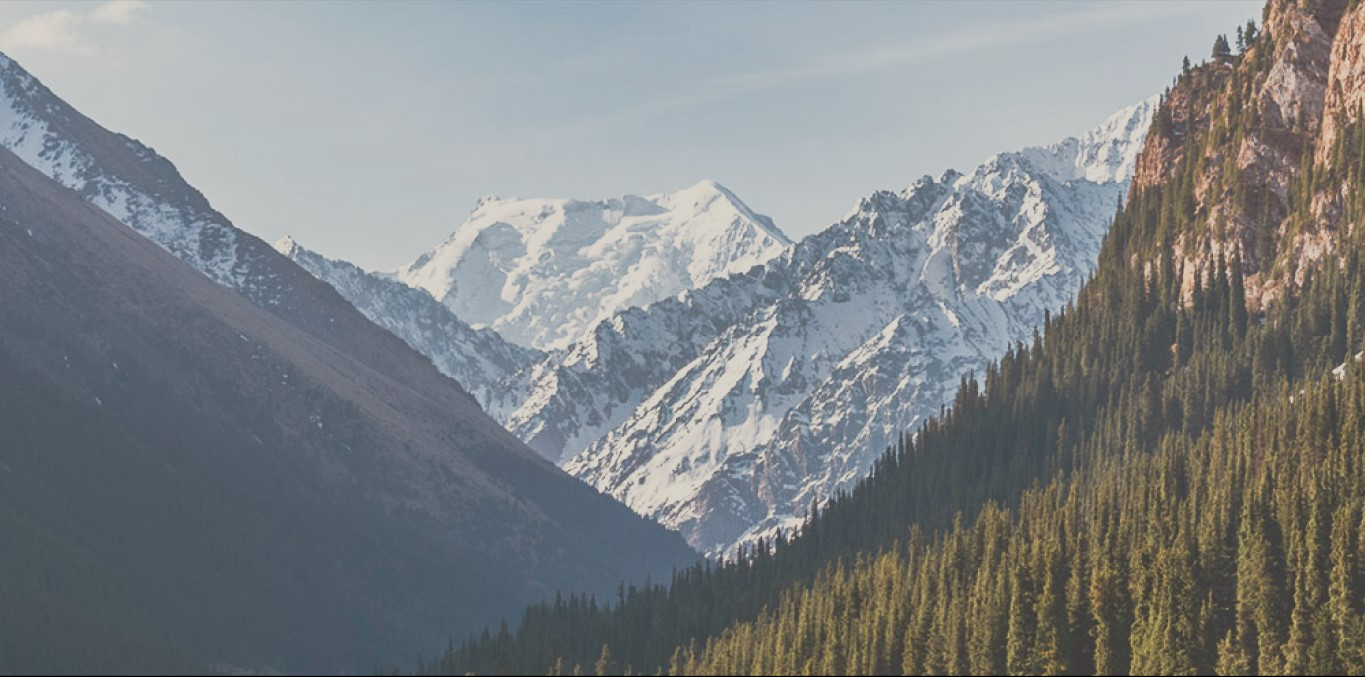
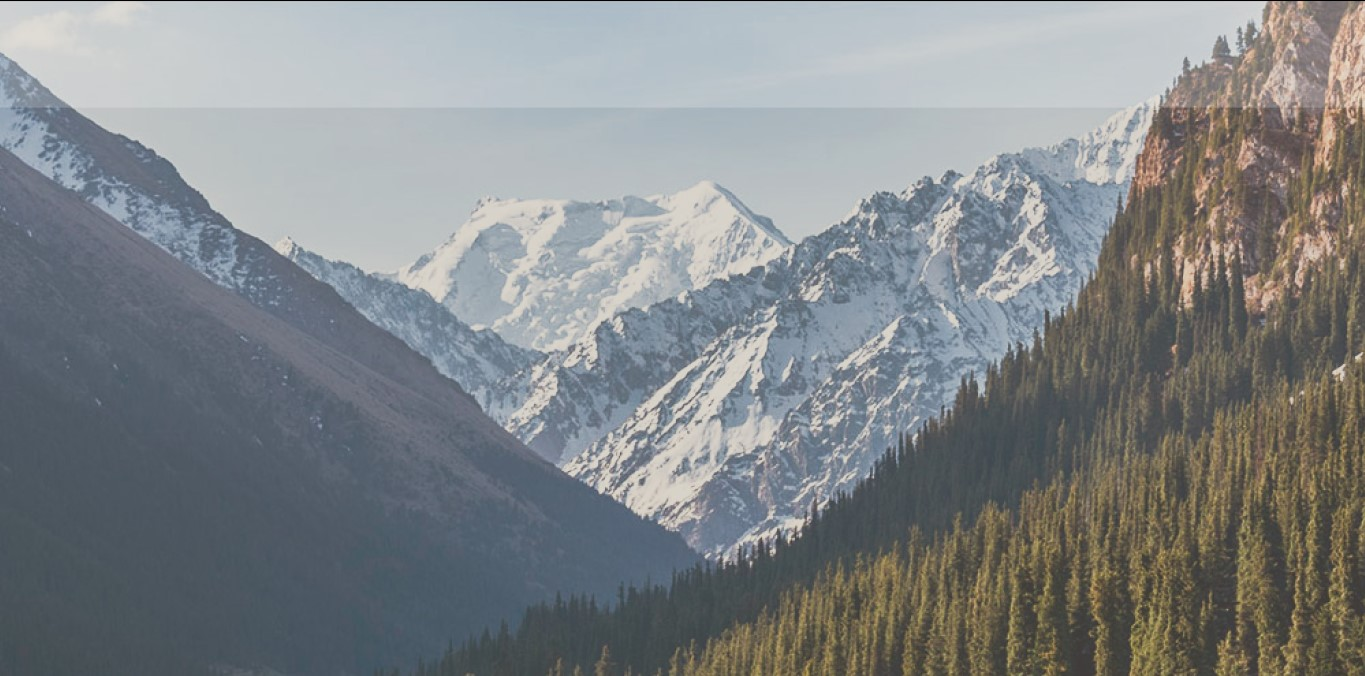
fixing nav and adding main text

diff --git a/style.css b/style.css
@@ -30,7 +30,7 @@ p {
 
 .container {
     width: 100%;
-    max-width: 1170px;
+    max-width: 1100px;
     margin: 0 auto;
 }
 
@@ -66,20 +66,8 @@ a {
 
 .header {
     width: 100%;
-    height: 120px;
+    height: 100%;
     background: url(images/for-header1.jpg) no-repeat center top / cover;
-}
-
-.header-background {
-    margin-top: -10px;
-    width: 100%;
-    height: 120px;
-    background-color: #fff;
-    opacity: 0.2;
-}
-
-header .container {
-    margin-top: -120px;
 }
 
 header a {
@@ -87,5 +75,12 @@ header a {
 }
 
 nav {
-    padding-top: 50px;
+    padding-top: 40px;
+}
+
+.main-text {
+    margin-top: 220px;
+    font-size: 40px;
+    color: 3c3c3c;
+    margin-bottom: 260px;
 }

diff --git a/index.html b/index.html
@@ -11,7 +11,6 @@
 </head>
 <body>
     <header class="header">
-        <div class="header-background"></div>
         <div class="container">
             <nav class="nav">
                 <ul>
@@ -38,6 +37,13 @@
                     </li>
                 </ul>
             </nav>
+            <div>
+                <p align="right" class="main-text">
+                    Узнай больше о <br>
+                    достопримечательностях <br>
+                    своей страны
+                </p>
+            </div>
         </div>
     </header>
     <section class="content">
